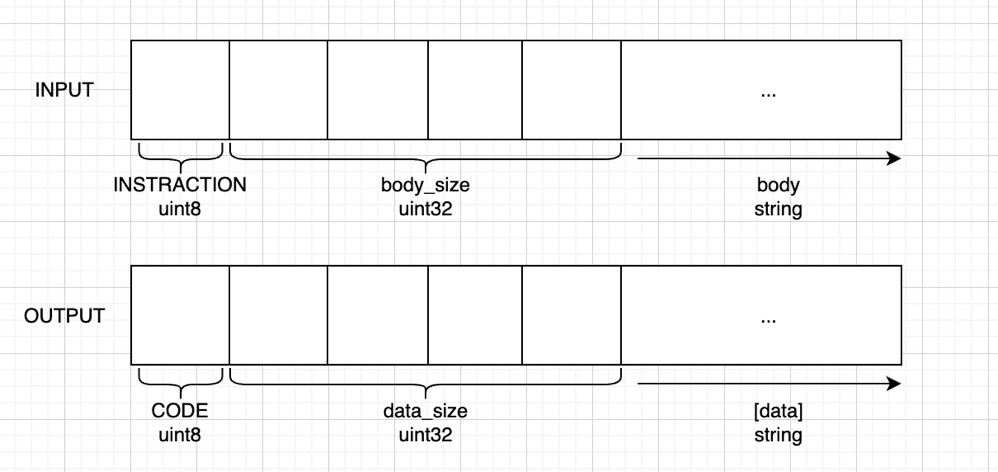
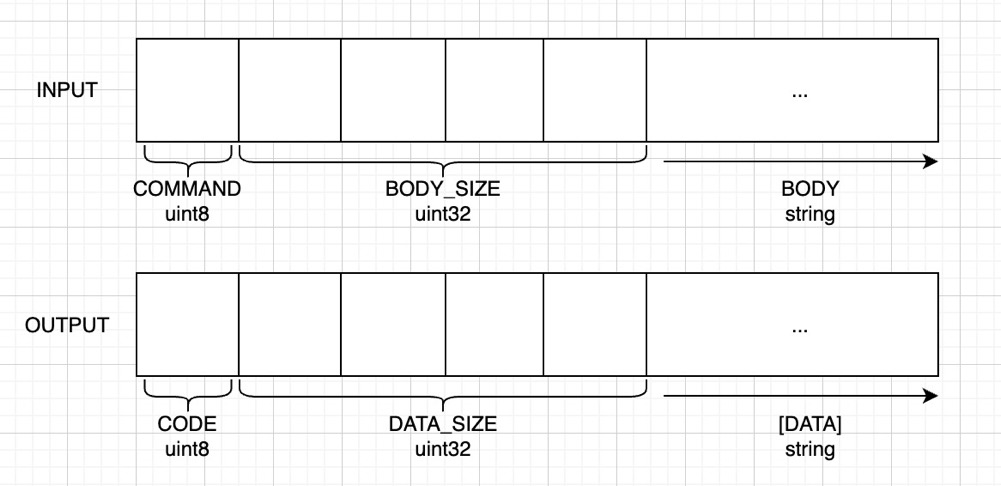
complete network framework

diff --git a/src/store.rs b/src/store.rs
@@ -49,7 +49,7 @@ impl Queues {
         Self { shared }
     }
 
-    pub fn push(&mut self, topic: String, body: Bytes) {
+    pub fn push(&self, topic: String, body: Bytes) {
         let mut state = self.shared.state.lock().unwrap();
         let queue =
             state.queues.entry(topic).or_insert_with(|| VecDeque::new());
@@ -59,7 +59,7 @@ impl Queues {
         queue.push_back(body);
     }
 
-    pub fn mpush(&mut self, topic: String, bodys: Vec<Bytes>) {
+    pub fn mpush(&self, topic: String, bodys: Vec<Bytes>) {
         let mut state = self.shared.state.lock().unwrap();
         let queue =
             state.queues.entry(topic).or_insert_with(|| VecDeque::new());
@@ -72,7 +72,7 @@ impl Queues {
         }
     }
 
-    pub fn len(&mut self, topic: String) -> u32 {
+    pub fn len(&self, topic: String) -> u32 {
         let state = self.shared.state.lock().unwrap();
         match state.queues.get(&topic) {
             Some(q) => q.len() as u32,
@@ -80,12 +80,12 @@ impl Queues {
         }
     }
 
-    pub fn pop(&mut self, topic: String) -> Option<Bytes> {
+    pub fn pop(&self, topic: String) -> Option<Bytes> {
         let mut state = self.shared.state.lock().unwrap();
         state.queues.get_mut(&topic).and_then(|q| q.pop_back())
     }
 
-    pub fn mpop(&mut self, topic: String, n: usize) -> Option<Vec<Bytes>> {
+    pub fn mpop(&self, topic: String, n: usize) -> Option<Vec<Bytes>> {
         let mut state = self.shared.state.lock().unwrap();
         state
             .queues
@@ -98,7 +98,7 @@ impl Queues {
         state.queues.entry(topic).and_modify(|q| q.clear());
     }
 
-    pub fn del(&mut self, topic: String) {
+    pub fn del(&self, topic: String) {
         let mut state = self.shared.state.lock().unwrap();
         state.queues.remove(&topic);
     }

diff --git a/src/command/mod.rs b/src/command/mod.rs
@@ -20,26 +20,15 @@ pub enum Command {
 }
 
 impl Command {
-    pub fn from_u8(v: u8) -> Option<Self> {
+    pub async fn new(v: u8, body: Bytes) -> crate::ecode::Result<Self> {
         match v {
-            1 => Some(Command::Auth(auth::Action::new())),
-            2 => Some(Command::Publish(publish::Action::new())),
-            3 => Some(Command::Subscribe(subscribe::Action::new())),
-            4 => Some(Command::Ready(ready::Action::new())),
-            6 => Some(Command::Clear(clear::Action::new())),
-            7 => Some(Command::Delete(delete::Action::new())),
-            _ => None,
-        }
-    }
-
-    pub(crate) async fn parse(&self, body: Bytes) -> crate::ecode::Result<()> {
-        match self {
-            Self::Auth(cmd) => cmd.parse(body).await,
-            Self::Publish(cmd) => cmd.parse(body).await,
-            Self::Subscribe(cmd) => cmd.parse(body).await,
-            Self::Ready(cmd) => cmd.parse(body).await,
-            Self::Clear(cmd) => cmd.parse(body).await,
-            Self::Delete(cmd) => cmd.parse(body).await,
+            1 => Ok(Command::Auth(auth::Action::new(body).await?)),
+            2 => Ok(Command::Publish(publish::Action::new(body).await?)),
+            3 => Ok(Command::Subscribe(subscribe::Action::new(body).await?)),
+            4 => Ok(Command::Ready(ready::Action::new(body).await?)),
+            6 => Ok(Command::Clear(clear::Action::new(body).await?)),
+            7 => Ok(Command::Delete(delete::Action::new(body).await?)),
+            _ => Err(crate::ecode::ECode::CmdInvalErr),
         }
     }
 

diff --git a/src/command/delete.rs b/src/command/delete.rs
@@ -1,25 +1,36 @@
+use crate::{connection::Connection, store::Queues};
 use bytes::Bytes;
 use serde::{Deserialize, Serialize};
-
-use crate::{connection::Connection, store::Queues};
+use tracing::error;
 
 #[derive(Debug, Serialize, Deserialize)]
-pub struct Action {}
+pub struct Action {
+    topic: String,
+}
 
 impl Action {
-    pub fn new() -> Self {
-        Self {}
+    pub async fn new(body: Bytes) -> crate::ecode::Result<Self> {
+        match String::from_utf8(body.to_vec()) {
+            Ok(topic) => Ok(Self { topic }),
+            Err(e) => {
+                error!("[clear] parse err {e}");
+                Err(crate::ecode::ECode::BodyInvalErr)
+            }
+        }
     }
 
-    pub(crate) async fn parse(&self, body: Bytes) -> crate::ecode::Result<()> {
-        println!("COMMAND auth {}", String::from_utf8(body.to_vec()).unwrap());
-        Ok(())
-    }
     pub(crate) async fn apply(
         &self,
         queue: &Queues,
         dst: &mut Connection,
     ) -> crate::ecode::Result<()> {
-        Ok(())
+        queue.del(self.topic.to_owned());
+        match dst.write_success_no_data().await {
+            Ok(_) => Ok(()),
+            Err(e) => {
+                error!("[clear] parse err {e}");
+                Err(crate::ecode::ECode::ServerInternalErr)
+            }
+        }
     }
 }

diff --git a/src/connection.rs b/src/connection.rs
@@ -26,14 +26,10 @@ impl Connection {
 
     pub async fn read_command(&mut self) -> Result<Command> {
         match self.stream.read_u8().await {
-            Ok(v) => match Command::from_u8(v) {
-                Some(cmd) => {
-                    let body = self.read_body().await?;
-                    cmd.parse(body).await?;
-                    Ok(cmd)
-                }
-                None => Err(ECode::CmdInvalErr),
-            },
+            Ok(v) => {
+                let body = self.read_body().await?;
+                Ok(Command::new(v, body).await?)
+            }
             Err(_) => Err(ECode::CmdParasErr),
         }
     }
@@ -53,11 +49,18 @@ impl Connection {
 
     pub async fn read_body(&mut self) -> Result<Bytes> {
         let body_size = self.read_body_size().await?;
+        if body_size == 0 {
+            return Ok(Bytes::new());
+        }
         let mut buffer = BytesMut::with_capacity(body_size as usize);
         if self.stream.read_buf(&mut buffer).await.is_err() {
             return Err(ECode::BodyParseErr);
         }
         Ok(buffer.into())
+    }
+
+    pub async fn write_success_no_data(&mut self) -> io::Result<()> {
+        self.write_error(ECode::Success).await
     }
 
     pub async fn write_error(&mut self, code: ECode) -> io::Result<()> {

diff --git a/src/command/clear.rs b/src/command/clear.rs
@@ -1,19 +1,23 @@
 use bytes::Bytes;
 use serde::{Deserialize, Serialize};
+use tracing::error;
 
 use crate::{connection::Connection, store::Queues};
 
 #[derive(Debug, Serialize, Deserialize)]
-pub struct Action {}
+pub struct Action {
+    topic: String,
+}
 
 impl Action {
-    pub fn new() -> Self {
-        Self {}
-    }
-
-    pub(crate) async fn parse(&self, body: Bytes) -> crate::ecode::Result<()> {
-        println!("COMMAND auth {}", String::from_utf8(body.to_vec()).unwrap());
-        Ok(())
+    pub async fn new(body: Bytes) -> crate::ecode::Result<Self> {
+        match String::from_utf8(body.to_vec()) {
+            Ok(topic) => Ok(Self { topic }),
+            Err(e) => {
+                error!("[clear] parse err {e}");
+                Err(crate::ecode::ECode::BodyInvalErr)
+            }
+        }
     }
 
     pub(crate) async fn apply(
@@ -21,6 +25,7 @@ impl Action {
         queue: &Queues,
         dst: &mut Connection,
     ) -> crate::ecode::Result<()> {
+        queue.clear(self.topic.to_owned());
         Ok(())
     }
 }

diff --git a/src/command/subscribe.rs b/src/command/subscribe.rs
@@ -1,19 +1,20 @@
+use crate::{connection::Connection, shutdown::Shutdown, store::Queues};
 use bytes::Bytes;
 use serde::{Deserialize, Serialize};
-
-use crate::{connection::Connection, shutdown::Shutdown, store::Queues};
+use tracing::error;
 
 #[derive(Debug, Serialize, Deserialize)]
 pub struct Action {}
 
 impl Action {
-    pub fn new() -> Self {
-        Self {}
-    }
-
-    pub(crate) async fn parse(&self, body: Bytes) -> crate::ecode::Result<()> {
-        println!("COMMAND auth {}", String::from_utf8(body.to_vec()).unwrap());
-        Ok(())
+    pub async fn new(body: Bytes) -> crate::ecode::Result<Self> {
+        match String::from_utf8(body.to_vec()) {
+            Ok(v) => Ok(Self {}),
+            Err(e) => {
+                error!("[clear] parse err {e}");
+                Err(crate::ecode::ECode::BodyInvalErr)
+            }
+        }
     }
 
     pub(crate) async fn apply(

diff --git a/src/command/auth.rs b/src/command/auth.rs
@@ -1,19 +1,20 @@
+use crate::{connection::Connection, store::Queues};
 use bytes::Bytes;
 use serde::{Deserialize, Serialize};
-
-use crate::{connection::Connection, store::Queues};
+use tracing::error;
 
 #[derive(Debug, Serialize, Deserialize)]
 pub struct Action {}
 
 impl Action {
-    pub fn new() -> Self {
-        Self {}
-    }
-
-    pub(crate) async fn parse(&self, body: Bytes) -> crate::ecode::Result<()> {
-        println!("COMMAND auth {}", String::from_utf8(body.to_vec()).unwrap());
-        Ok(())
+    pub async fn new(body: Bytes) -> crate::ecode::Result<Self> {
+        match String::from_utf8(body.to_vec()) {
+            Ok(v) => Ok(Self {}),
+            Err(e) => {
+                error!("[clear] parse err {e}");
+                Err(crate::ecode::ECode::BodyInvalErr)
+            }
+        }
     }
 
     pub(crate) async fn apply(

diff --git a/src/command/publish.rs b/src/command/publish.rs
@@ -1,19 +1,20 @@
+use crate::{connection::Connection, store::Queues};
 use bytes::Bytes;
 use serde::{Deserialize, Serialize};
-
-use crate::{connection::Connection, store::Queues};
+use tracing::error;
 
 #[derive(Debug, Serialize, Deserialize)]
 pub struct Action {}
 
 impl Action {
-    pub fn new() -> Self {
-        Self {}
-    }
-
-    pub(crate) async fn parse(&self, body: Bytes) -> crate::ecode::Result<()> {
-        println!("COMMAND auth {}", String::from_utf8(body.to_vec()).unwrap());
-        Ok(())
+    pub async fn new(body: Bytes) -> crate::ecode::Result<Self> {
+        match String::from_utf8(body.to_vec()) {
+            Ok(v) => Ok(Self {}),
+            Err(e) => {
+                error!("[clear] parse err {e}");
+                Err(crate::ecode::ECode::BodyInvalErr)
+            }
+        }
     }
 
     pub(crate) async fn apply(

diff --git a/src/command/ready.rs b/src/command/ready.rs
@@ -1,19 +1,20 @@
+use crate::{connection::Connection, store::Queues};
 use bytes::Bytes;
 use serde::{Deserialize, Serialize};
-
-use crate::{connection::Connection, store::Queues};
+use tracing::error;
 
 #[derive(Debug, Serialize, Deserialize)]
 pub struct Action {}
 
 impl Action {
-    pub fn new() -> Self {
-        Self {}
-    }
-
-    pub(crate) async fn parse(&self, body: Bytes) -> crate::ecode::Result<()> {
-        println!("COMMAND auth {}", String::from_utf8(body.to_vec()).unwrap());
-        Ok(())
+    pub async fn new(body: Bytes) -> crate::ecode::Result<Self> {
+        match String::from_utf8(body.to_vec()) {
+            Ok(v) => Ok(Self {}),
+            Err(e) => {
+                error!("[clear] parse err {e}");
+                Err(crate::ecode::ECode::BodyInvalErr)
+            }
+        }
     }
 
     pub(crate) async fn apply(

diff --git a/README.md b/README.md
@@ -14,12 +14,12 @@ An fast, light, straightforward, high performance, stateless message queue, supp
 
 ### Input: COMMAND BODY_SIZE BODY
 
-- COMMAND: Type is uint8(fixed 1-byte), refer to [Instruction Definition](./src/command/mod.rs)
+- COMMAND: Type is uint8(fixed 1-byte), refer to [Command Definition](./src/command/mod.rs)
 - BODY_SIZE: Type is uint32(fixed 4-byte), Byte length of the body, [0, MAX_BODY_SIZE]
 - BODY: Content of the command parameters
 
 ### Output: CODE [DATA]
 
-- CODE: Type is uint8(fixed 1-byte), refer to [Ecode Definition](./src/command/ecode.rs)
+- CODE: Type is uint8(fixed 1-byte), refer to [ECode Definition](./src/ecode.rs)
 - DATA_SIZE: Type is uint32(fixed 4-byte)
 - DATA: Returned based on the command and status code (has a value for data_size > 0)
